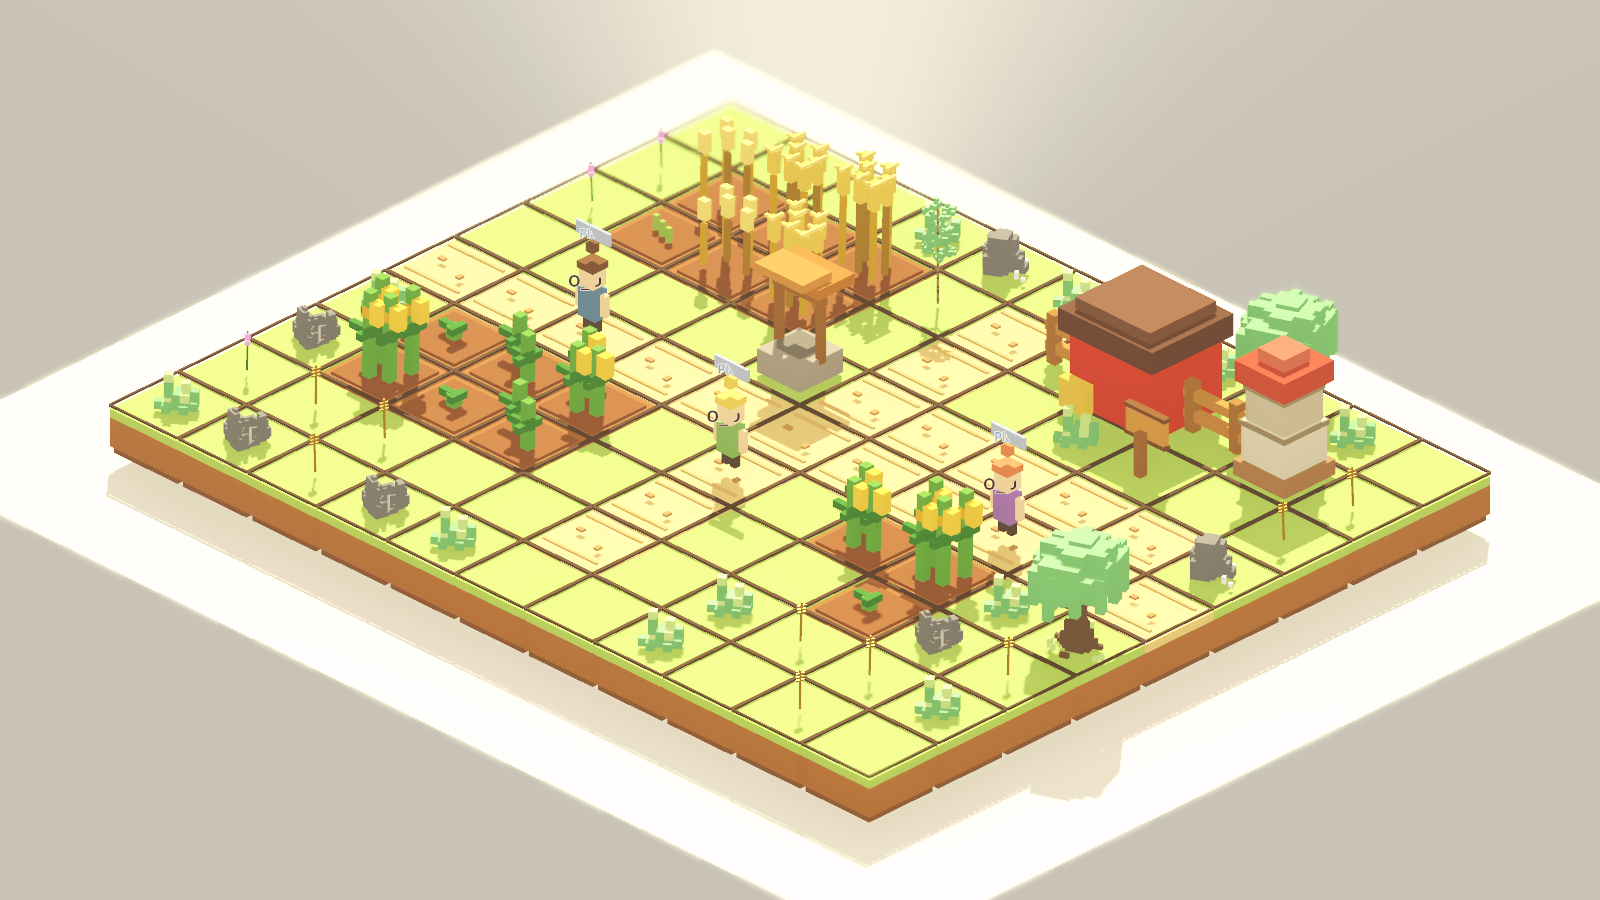
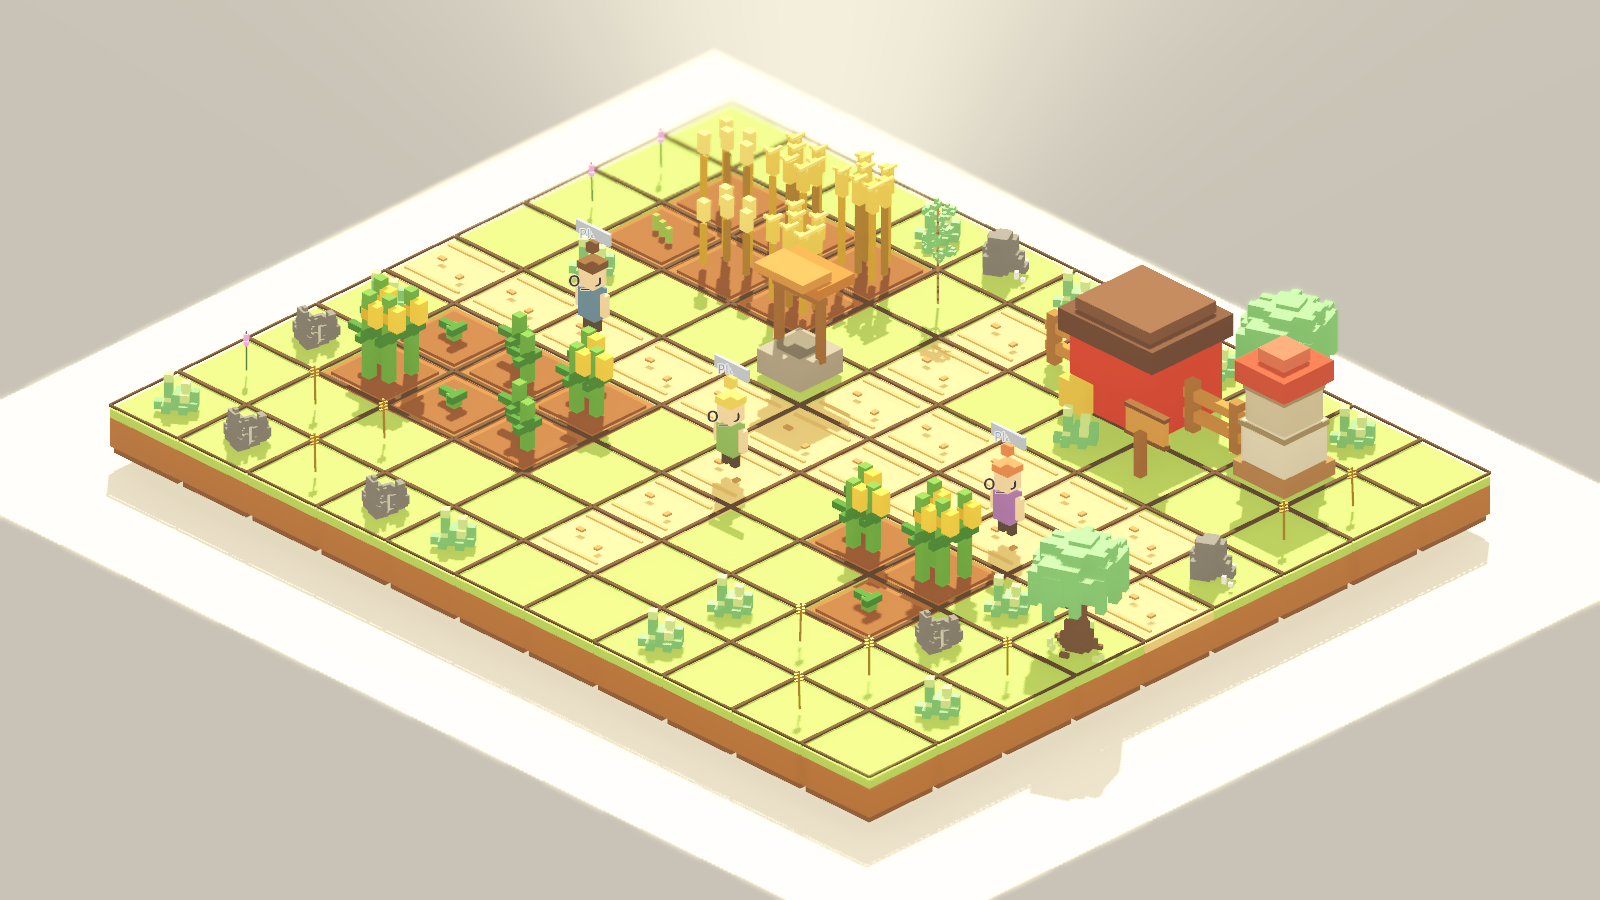
Add MEGAVOX west field gap cluster

diff --git a/godot/README.md b/godot/README.md
@@ -231,7 +231,7 @@ Small Godot 4 vertical slice for a cozy isometric voxel farm builder.
 - `tools/smoke_parley_favor_verdicts.gd` exercises NPC end-day verdicts that name a spent Parley favor.
 - `tools/smoke_parley_memory_verdicts.gd` exercises NPC end-day verdicts that name remembered-help Parley context without calling it a favor.
 - `tools/smoke_palette_tools.gd` exercises rock placement, pickaxe breaking, and sickle cutting.
-- `tools/smoke_local_megavox_prop_swaps.gd` exercises procedural starter-fence fallback plus optional MEGAVOX rock/alternate-rock/flower-patch/tall-grass/alternate-tall-grass/tree/alternate-tree swaps and the starter homestead-edge/north-field/north-homestead-gap/west-meadow/south-meadow/east-grove catalog, including authored cluster order, catalog-driven tile-scale bounds checks for local imports, procedural fallbacks when files are absent, reserved target-tile guards for work-order/Forge smokes, and protected starter readability tiles for paths, crops, structures, and anchor decor.
+- `tools/smoke_local_megavox_prop_swaps.gd` exercises procedural starter-fence fallback plus optional MEGAVOX rock/alternate-rock/flower-patch/tall-grass/alternate-tall-grass/tree/alternate-tree swaps and the starter homestead-edge/north-field/north-homestead-gap/west-field-gap/west-meadow/south-meadow/east-grove catalog, including authored cluster order, catalog-driven tile-scale bounds checks for local imports, procedural fallbacks when files are absent, reserved target-tile guards for work-order/Forge smokes, and protected starter readability tiles for paths, crops, structures, and anchor decor.
 - `tools/smoke_megavox_starter_capture_manifest.gd` exercises the committed MEGAVOX starter-map review manifest staying in sync with the live starter decor catalog, authored cluster order, and capture metadata.
 - `tools/smoke_crafting.gd` exercises resource spending and Fence Kit crafting.
 - `tools/smoke_ui_field_targeting.gd` exercises selecting a right-panel crew-order button and then clicking the farm field.